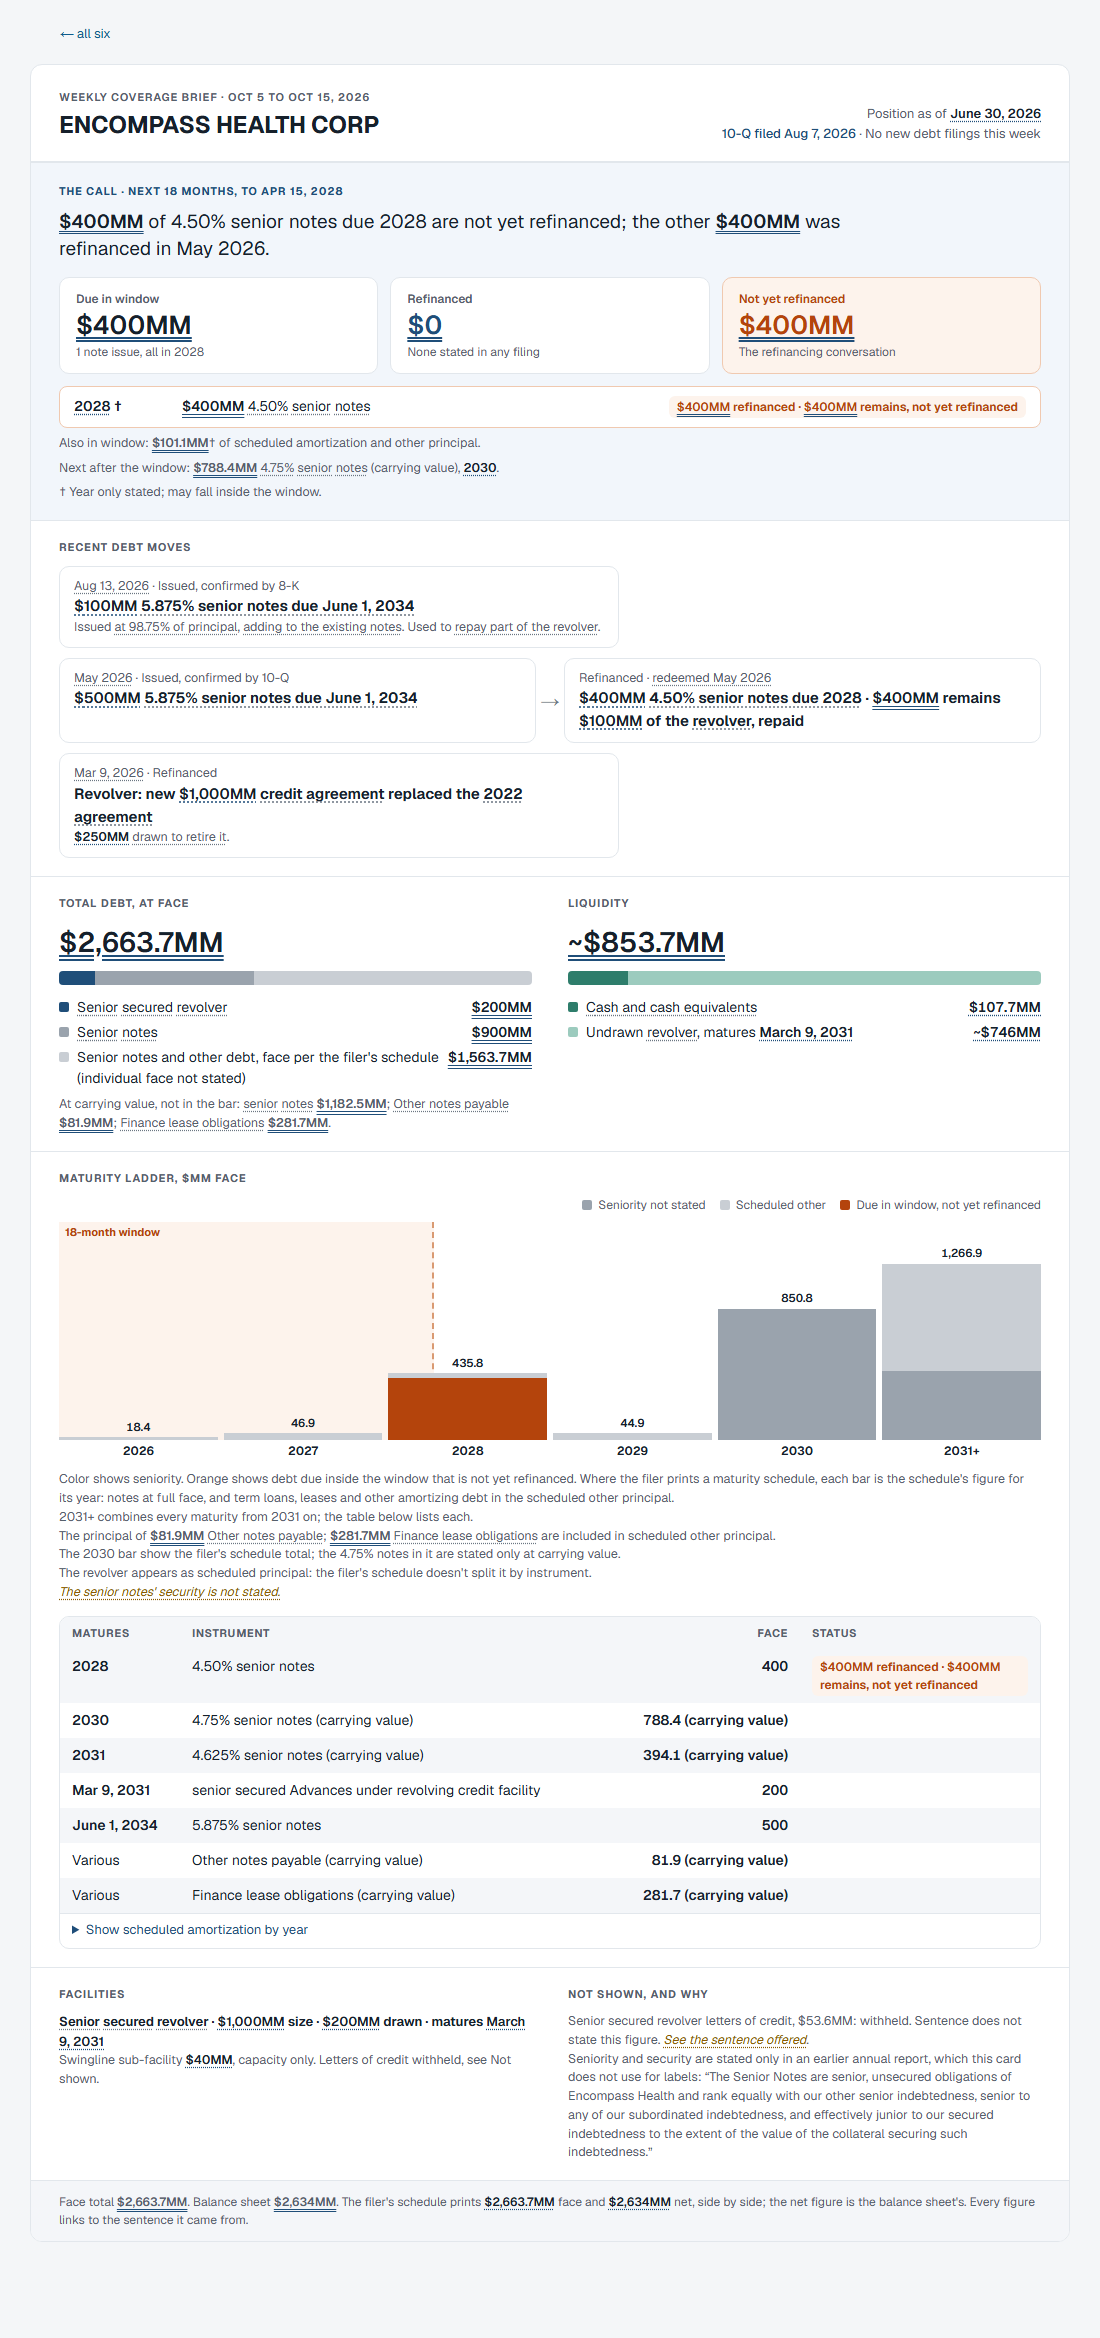
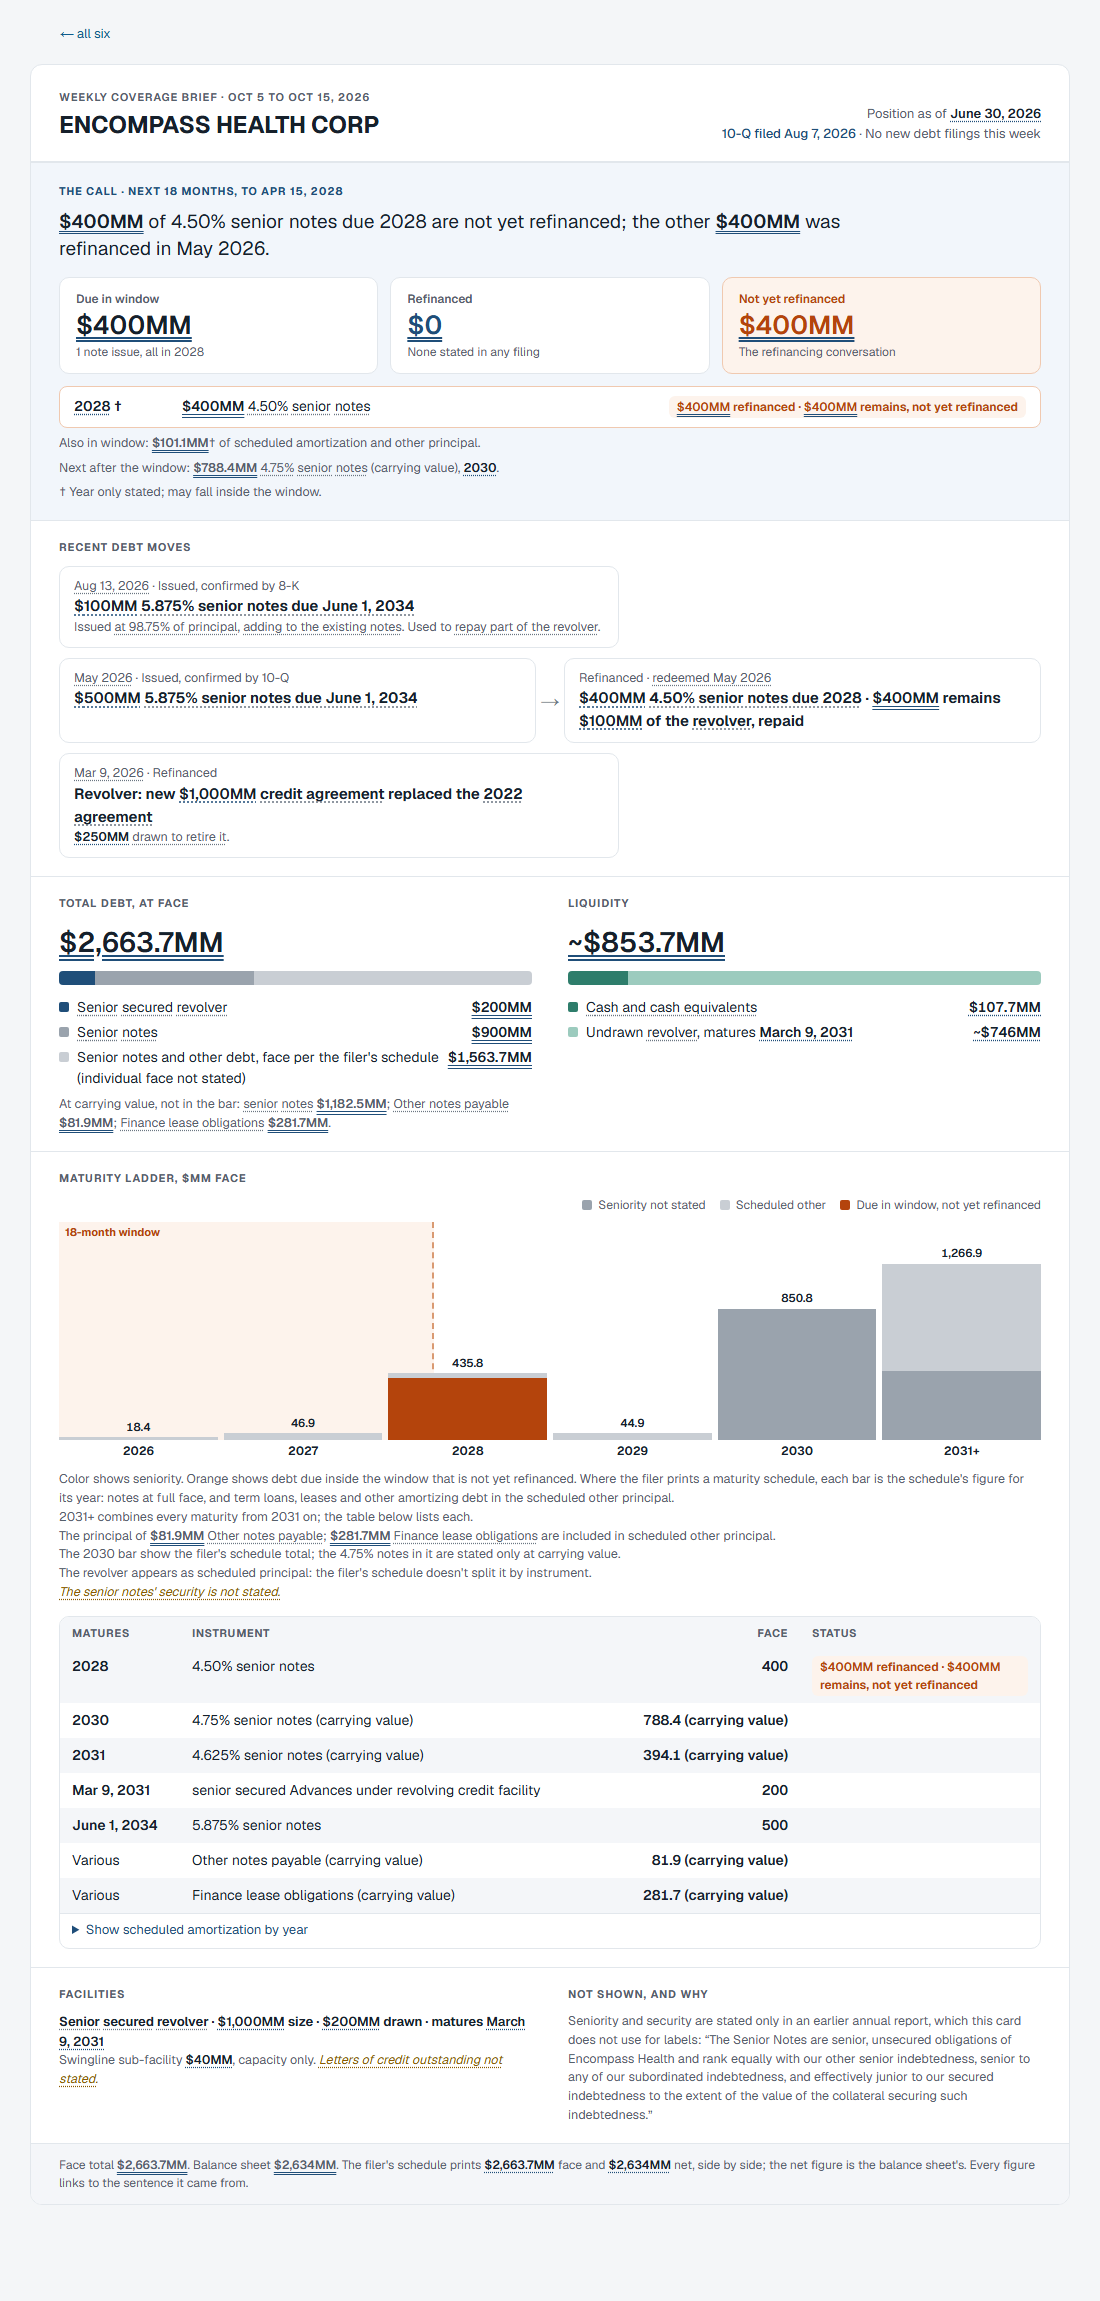
Checkpoint 10: Tenet's corrected card, Molina's re-render, the refresh batch declared; screenshots_v8 refreshed

diff --git a/sessions/27/stage1_checkpoint10.md b/sessions/27/stage1_checkpoint10.md
@@ -1,0 +1,66 @@
+# Session 27: Checkpoint 10 (Tenet's corrected card, Molina's re-render, the batch's declared cost)
+
+Status: **stopped**, as instructed. Nothing is pushed, released or re-signed.
+
+**Spend this round: $0.0574.** That is Molina's verified-facts run, approved up to $0.35 and priced at $0.1454 worst case. All pricing and replays ran at $0.
+
+## Tenet's corrected card (screenshots_v8/1-TENET-HEALTHCARE-CORP.png, for your clear)
+
+- **Your ruling (Oct 30):** a standing term stated only in the latest 10-K renders with the "10-K" tag, unless a later filing in the read set amends that facility.
+- **Tenet's read set:** after the Feb 17 10-K come the Jul 29 10-Q ("as amended to date", a formula, not an amendment), and the Sep 8 and Sep 22 8-Ks, which are about notes and don't name either facility. None of them amends either facility.
+- **So both maturities render tagged:**
+  - Liquidity: "Undrawn revolver, matures November 4, 2030 [10-K]".
+  - Facilities: "senior secured revolver · … · matures November 4, 2030 [10-K]" and "Letter of credit facility · $105MM letters of credit outstanding · $200MM size · matures November 4, 2030 [10-K]".
+- **The L/C facility's maturity is new on the v3 card.** An L/C facility line never rendered a maturity for any name. That was a gap for the whole class, now fixed: it shows its maturity as any facility does.
+- **Balances from the 10-K stay out, tagged or not.** That is how Encompass's "$46.3MM letters of credit as of December 31, 2025" (a 10-K sentence; the anchor 10-Q doesn't print it) leaves its card. It had been withheld with a reason; now the facility says "Letters of credit outstanding not stated."
+- **Tenet is not re-signed, per your instruction.** goldenThroughLoop fails Tenet's [3] and [3id] until you clear it, because the 10-K re-enters its position identity.
+- **How it was replayed:** Tenet's Q3 10-Q (Oct 29) has moved its live read set. The corrected card was replayed at $0 on its Oct 15 read set through `READ_SET_AS_OF`, the new "serve from the last build" setting. goldenThroughLoop now checks the published brief's read sets by default.
+
+## Rules landed (tests first; before → after)
+
+| Rule | Test |
+|---|---|
+| Standing terms from the 10-K, tagged and bounded; 10-K balances never | `standingTerms` 3/4 → **7/7**; `annualReportSource` 9/2 → **11/11** (controls: an untagged term and a tagged balance are both caught) |
+| Rule 53 extended (a "no amount was outstanding" sentence is a stated zero) | `statedNothingOutstanding`: did not run → **24/24**. It changes no sample of the six. Molina's three refresh answers now carry drawn $0 (9b still 3/3). |
+| A section whose stage hasn't run says "not yet read from [filing]" | `missingStage`: did not run → **10/10**. Facts now record their anchor; a prior anchor's facts never render. |
+| Refresh = every stage; missing-stage rendering | in `pipeline_design.md` (§3, §5, §10 items 7–10) |
+
+**Offline suite:** 83 of 83 suites, 2,332 assertions. **goldenThroughLoop:** 14 passed, 2 failed; the two failures are Tenet's [3] and [3id], which await your clear of its re-signature.
+
+## Molina's re-render (screenshots_v8/Molina-refresh.png)
+
+The verified-facts stage ran on the Oct 22 10-Q: **$0.0574**, three asks. Against the current card:
+
+- **Header:** "Weekly coverage brief · Oct 16 to Oct 30, 2026"; "10-Q filed Oct 22, 2026 · New this week: this 10-Q, filed Oct 22, 2026, is the position · 3 other filings, none affecting debt".
+- **Position:** as of **September 30, 2026**.
+- **The call:** to Apr 30, 2028; the next maturity is "19 months away · 1 month past the window" (was 20 · 2).
+- **Liquidity:** $5,729MM, with cash $4,479MM (was $6,235MM / $4,985MM). "Not counted: up to $800MM of uncommitted incremental term loans" **is back**.
+- **Facilities:** "Revolver · $1,250MM size · **$0 drawn** · matures November 20, 2030". The **$0 drawn is back**, now from Rule 53's extension. The swingline $15MM and L/C $100MM sub-facilities **are back**.
+- **Footnote:** balance sheet $3,771MM after $29MM (was $3,769MM after $31MM).
+- **Moves:** the Feb 4, 2026 amendment card **is still missing**, and the section says "No debt moves stated this year". **This is false again, and the missing-stage rule doesn't cover it.**
+  - The facts stage did run on this anchor.
+  - The sentence "We executed an amendment to the Credit Agreement on February 4, 2026 …" was in its input (checked with `--dump`).
+  - None of the three asks returned it as a move. On the Q2 anchor the same stage did.
+- **Proposed rule, not built:** a move sentence located in code (an amendment, issuance, redemption or repayment, dated inside the year's window) that the facts stage didn't keep is a check failure. The moves section then never asserts absence while such a sentence exists. It would say, for example, "1 stated move not confirmed: Feb 4, 2026 credit agreement amendment", with its sentence.
+
+## The refresh batch, declared (sessions/27/refresh_batch_pricing.json; pre-call counts, $0)
+
+Every billed stage on each Oct 29 10-Q: the base extraction (3 asks), the dig budget (5 per ask), proceeds-use (the one estimate: the Oct 22 count plus 25%), and the verified facts on the new anchor's text.
+
+| Name | Base / ask | Dig / ask | Proceeds-use / ask | Facts (3 asks) | Worst case | Declared |
+|---|---|---|---|---|---|---|
+| Tenet | $0.2011 (101,097 in) | $0.3241 | $0.0945 | $0.1563 | $2.0155 | **$2.02** |
+| DaVita | $0.1791 (79,085 in) | $0.2949 | $0.0748 | $0.1593 | $1.8056 | **$1.81** |
+| CHS | $0.1757 (75,660 in) | $0.2978 | $0 (none on Oct 22) | $0.1569 | $1.5772 | **$1.58** |
+| **Batch** | | | | | | **$5.41** |
+| Molina | already run: extraction $0.6165 + facts $0.0574 = **$0.6739** | | | | | nothing further |
+
+- **Tenet's worst case ($2.02) is over the $2.00 per-build cap.** The dig budget, at 5 per ask, is 48% of it.
+- **Expected spend is far lower.** The ledger shows Tenet's re-tastes at $0.2326 each with no digs, and Molina's facts at $0.0574. Expected: Tenet about $0.76, DaVita about $0.62, CHS about $0.43, so about $1.81 for the batch.
+- **Decisions for you:** approve the batch at $5.41, and either raise Tenet's cap or cap its dig budget.
+
+## Release plan (unchanged, waiting on your clears)
+
+1. Clear Tenet's corrected card, then re-sign it.
+2. Release the Oct 15 cards as a checkpoint (`npm run release`).
+3. Approve the refresh batch.

diff --git a/sessions/26/screenshots_v8/visible_changes.md b/sessions/26/screenshots_v8/visible_changes.md
@@ -1,13 +1,10 @@
 # Visible changes against origin/main
 
 ## TENET HEALTHCARE CORP
-- **liquidity**
-  - was: Undrawn revolver, matures November 4, 2030
-  - now: Undrawn revolver
 - **facilities**
-  - was: senior secured revolver · $1,900MM size · $0 drawn · <$1MM letters of credit · matures November 4, 2030
-  - now: senior secured revolver · $1,900MM size · $0 drawn · <$1MM letters of credit
-- **cited sentences behind source links**: 136 out, 134 in
+  - was: letter of credit facility · $105MM letters of credit outstanding · $200MM size
+  - now: letter of credit facility · $105MM letters of credit outstanding · $200MM size · matures November 4, 2030
+- **cited sentences behind source links**: 136 out, 137 in
   - was cited: 10-Q 2026-07-29 | 4.625 % due 2028 $ 600   $ 600
   - was cited: 10-Q 2026-07-29 | 5.125 % due 2027 $ 1,500   $ 1,500
   - was cited: 10-Q 2026-07-29 | 6.125 % due 2028 $ 1,750   $ 1,750
@@ -36,6 +33,8 @@
   - now cited: 10-Q 2026-07-29 | 6.875 % due 2031 362
   - now cited: 10-Q 2026-07-29 | 6.000 % due 2033 750
   - now cited: 10-Q 2026-07-29 | Finance leases, mortgages and other notes 671
+  - now cited: 10-K 2026-02-17 | The 2025 Credit Agreement will terminate on the earlier of (1) November 4, 2030 (the "Scheduled Maturity Date") or (2)  45 business days pri
+  - now cited: 10-K 2026-02-17 | We amended the LC Facility in November 2025 (the "LC Facility Amendment") to, among other things, extend the scheduled maturity date from Ma
   - now cited: 10-Q 2026-07-29 | Current portion of long-term debt $ 160
   - now cited: 10-Q 2026-07-29 | Long-term debt, net of current portion $ 13,088
   - now cited: 10-Q 2026-07-29 | Unamortized issue costs and note discounts ( 85 )
@@ -66,14 +65,16 @@
   - now: $362MM
 
 ## Encompass Health Corp
+- **facilities**
+  - was: Swingline sub-facility $40MM, capacity only. Letters of credit withheld, see Not shown.
+  - now: Swingline sub-facility $40MM, capacity only. Letters of credit outstanding not stated.
 - **notShown**
   - was: Senior secured revolver letters of credit, $53.6MM: withheld. Sentence does not state this figure. See the sentence offered.
-  - now: Senior secured revolver letters of credit, $46.3MM: withheld. Stated as of a date other than the period this card reports. See the sentence offered.
 - **cited sentences behind source links**: 5 out, 5 in
   - was cited: ehc-20260309.htm | the maturity date is March 9, 2031, rather than October 7, 2027
   - was cited: 10-Q 2026-08-07 | As of June 30, 2026, $ 200.0 million was drawn under the revolving credit facility with an interest rate of 4.9 %.
   - now cited: 10-Q 2026-08-07 | the maturity date has been changed to March 9, 2031
-  - now cited: 10-Q 2026-08-07 | As of December 31, 2025 and 2024, $ 46.3  million and $ 36.3  million , respectively, was being utilized under the letter of credit subfacil
+  - now cited: ehc-20260309.htm | In summary, the 2026 Credit Agreement provides for a revolving credit facility of $ 1 billion, including a $ 260 million letter of credit su
 - **parts of computed figures (shown when a figure is opened)**: 87 shown differently
   - was: $ 800 million
   - was: $ 400  million in aggregate principal amount
